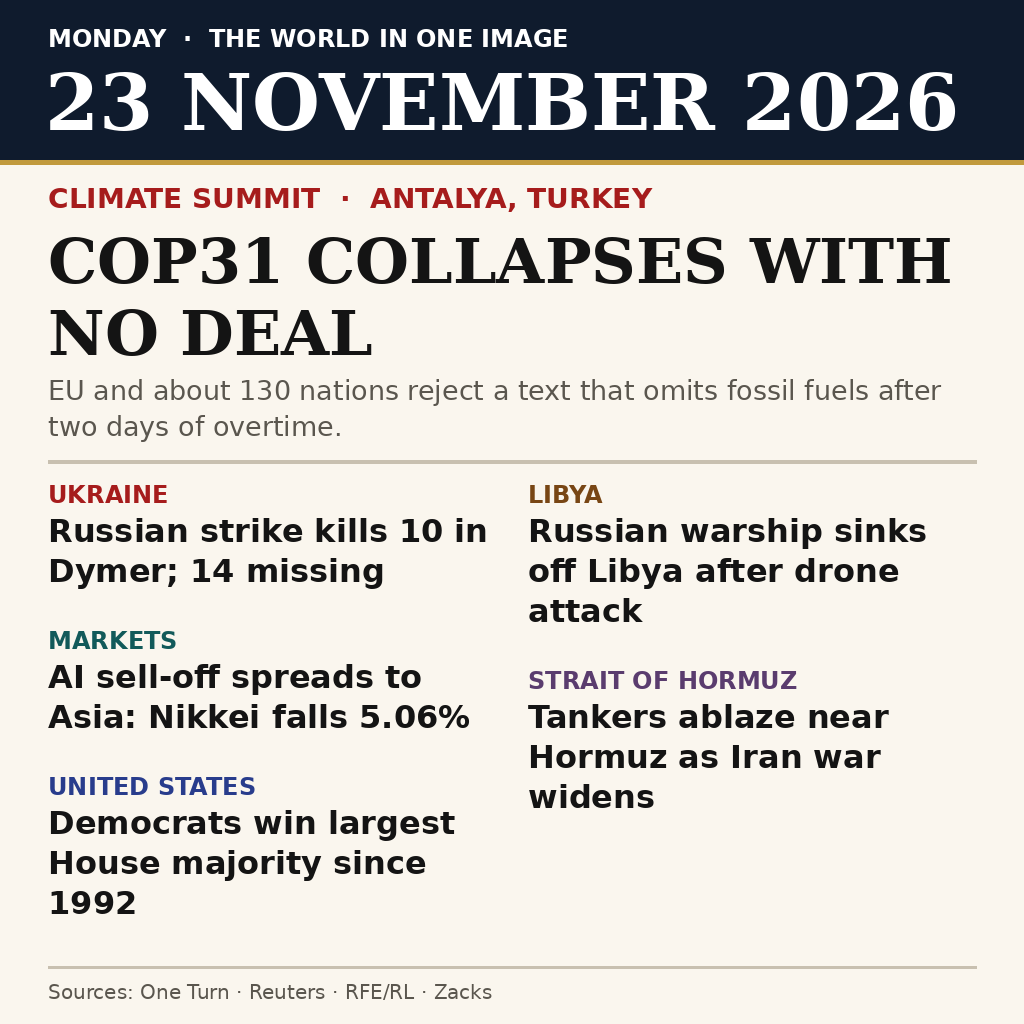
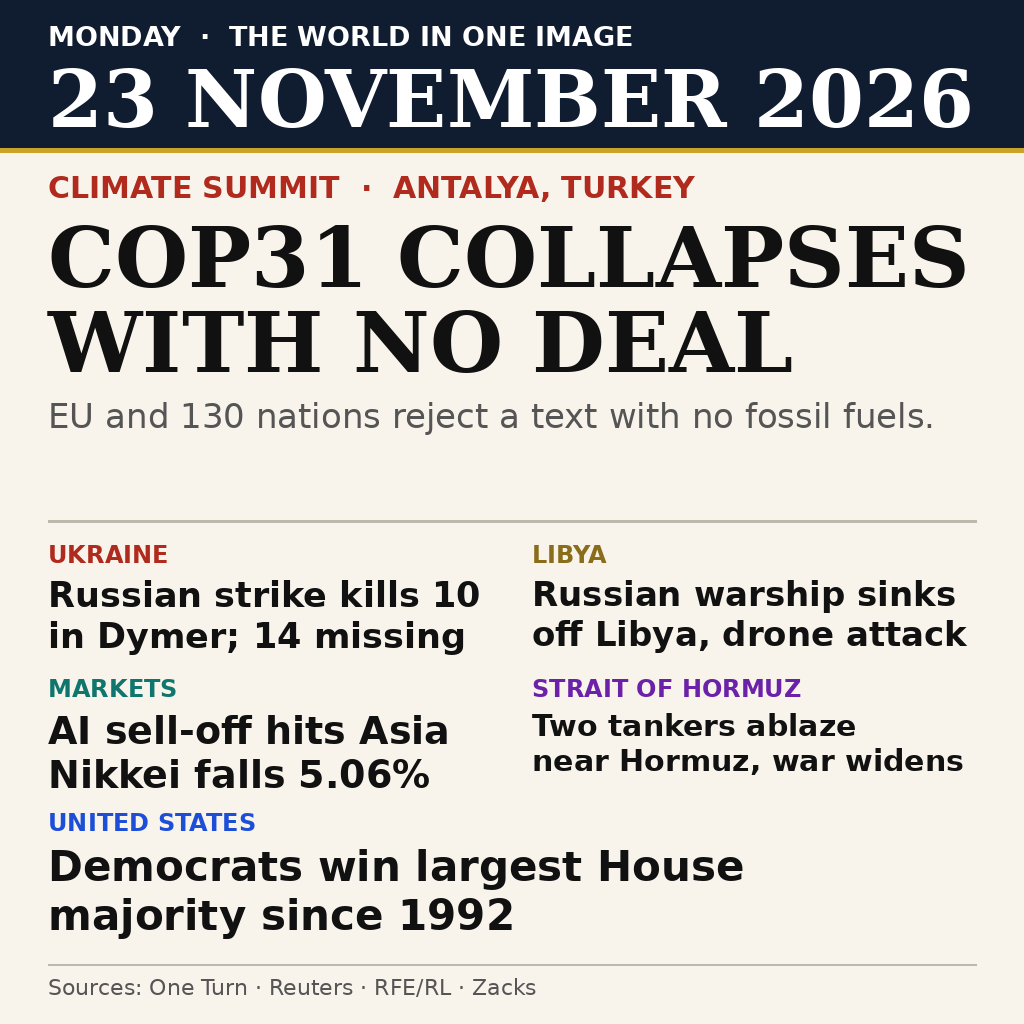
Add files via upload

Changed region(s): [[0.0, 0.0, 1.0, 1.0]]

diff --git a/main.py b/main.py
@@ -1,11 +1,13 @@
-"""Copy the pre-built front page to /output/entry.png.
+"""Copy the pre-built v2 front page to /output/entry.png.
 
-The entry image is drawn at build time (see README.md): a 1024x1024 PNG
-summarising Monday 23 November 2026 in six verified stories. The grader
-runs this program with no network, so it only copies the bundled PNG —
-stdlib only, deterministic, and byte-identical on every run.
+The image is drawn at build time (see README.md): a 1024x1024 PNG that
+sums up Monday 23 November 2026 in six verified stories, with the COP31
+collapse as the dominant lead. The grader runs this program with no
+network, so it only copies the bundled PNG -- standard library only,
+deterministic, byte-identical on every run.
 """
 
+import hashlib
 import os
 import shutil
 
@@ -19,9 +21,17 @@ def main():
         raise FileNotFoundError(f"bundled image missing: {SRC}")
     os.makedirs("/output", exist_ok=True)
     shutil.copyfile(SRC, DST)
-    # Guard: the grader must see exactly the bytes we built.
-    if os.path.getsize(SRC) != os.path.getsize(DST):
-        raise RuntimeError("copied entry.png differs in size from the source")
+    # Guard: the grader must see exactly the bytes we built. A size
+    # check alone cannot catch a truncated copy, so compare SHA-256.
+    def _sha256(path):
+        h = hashlib.sha256()
+        with open(path, "rb") as f:
+            for chunk in iter(lambda: f.read(65536), b""):
+                h.update(chunk)
+        return h.digest()
+
+    if _sha256(SRC) != _sha256(DST):
+        raise RuntimeError("copied entry.png differs from the source")
 
 
 if __name__ == "__main__":

diff --git a/README.md b/README.md
@@ -1,12 +1,39 @@
-# 23 November 2026 — The World in One Image
+# 23 November 2026 — The World in One Image (v2)
 
 [![make.fun](https://make.fun/badge/news-image-20261123.svg)](https://make.fun/bounty/news-image-20261123)
 [![rank](https://make.fun/badge/news-image-20261123/UpTo1M/news-image-20261123/rank.svg)](https://make.fun/bounty/news-image-20261123)
 [![reward](https://make.fun/badge/news-image-20261123/UpTo1M/news-image-20261123/reward.svg)](https://make.fun/bounty/news-image-20261123)
 
-Entry for the make.fun competition
+Version 2 of the entry for the make.fun competition
 [Sum up 23 November's world news in one image](https://make.fun/bounty/news-image-20261123):
 a newspaper front page that sums up Monday 23 November 2026 in six stories.
+
+## What changed vs v1 — and why
+
+V1 ("The World in One Image") scored round 1 at rank 5,615 of 7,226
+(Judge win rate 410,044) — bottom quartile, far from the paid top 50.
+Reading v1 at ~300px (the size the AI judge sees) showed the problem:
+the bottom half was a dense wall of small text — five secondary stories
+in a tight two-column grid, headlines wrapping to three lines at ~30px,
+with a two-line grey deck under the lead adding noise. At judging size
+it read as a grey mass, not a front page.
+
+V2 is rebuilt from scratch around legibility at small size:
+
+- **The lead dominates.** "COP31 COLLAPSES / WITH NO DEAL" is set as
+  large as the page allows, with a red kicker and a single one-line deck.
+  The lead block takes over half the page.
+- **Secondary stories are headline-only.** Each of the five other stories
+  is a coloured region tag plus a two-line headline in bold sans at
+  33–42px — no deck text, no third line, far fewer words on the page.
+- **More white space.** Wider gutters, taller rows, a clear rule between
+  the lead and the grid, and a full-width bottom story (Democrats) so the
+  grid never looks cramped.
+- **The date stays huge.** "23 NOVEMBER 2026" fills the masthead, fully
+  visible with nothing clipped (v1's first render clipped the final "6").
+- Every headline is auto-fit to its box, so no text is ever clipped or
+  wrapped by accident. The image was checked visually at full size and
+  at ~300px before finishing.
 
 ## The six stories
 
@@ -41,10 +68,11 @@ nothing in the image is invented.
 ## How it works
 
 `main.py` is the whole program: it copies the pre-built `entry.png`
-(1024×1024, drawn at build time with Python + Pillow from the verified
-stories above) to `/output/entry.png`. It uses only the Python standard
-library (`os`, `shutil`), makes no network calls, and writes nothing
-except `/output/entry.png`, so the output is byte-identical on every run.
+(1024×1024, 125,160 bytes, drawn at build time with Python + Pillow from
+the verified stories above) to `/output/entry.png`. It uses only the
+Python standard library (`os`, `shutil`, `hashlib`), makes no network
+calls, and writes nothing except `/output/entry.png`, so the output is
+byte-identical on every run.
 
 ## License
 
